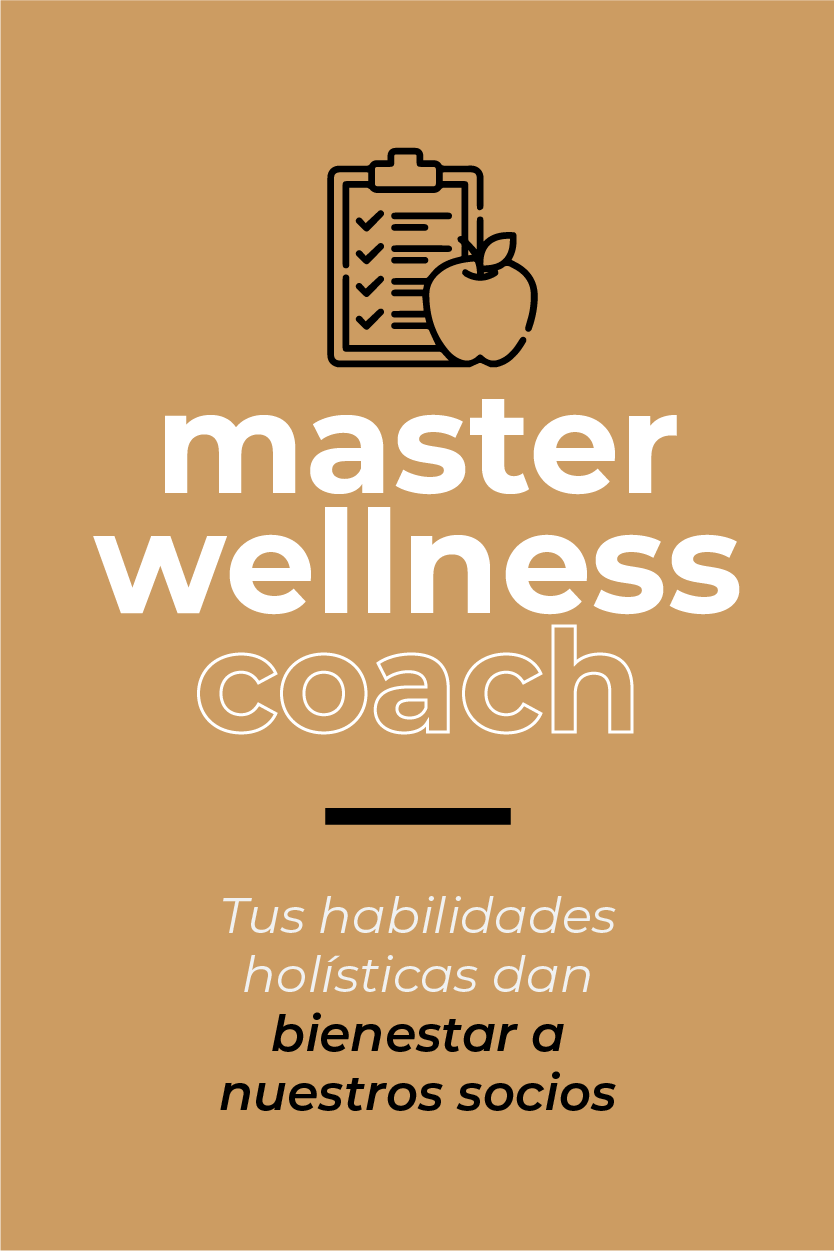
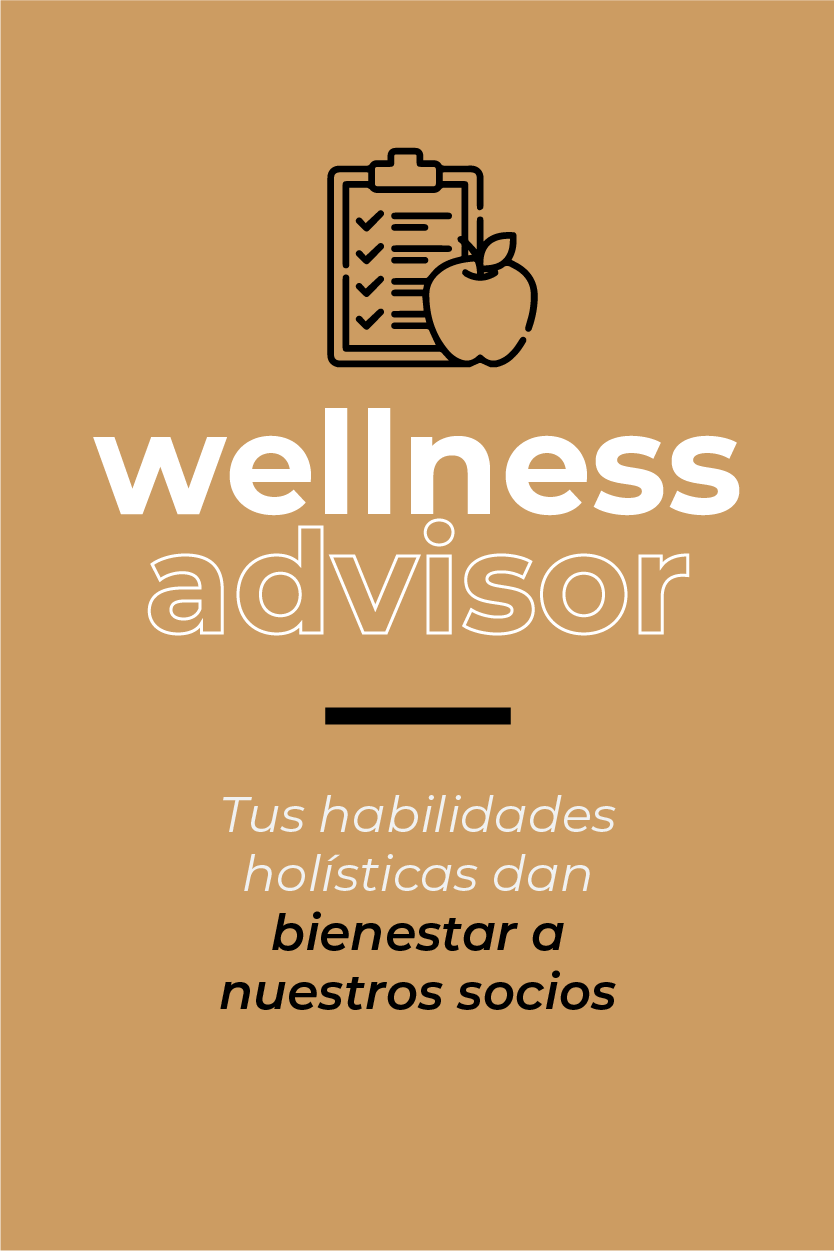
actualizando vacante

Changed region(s): [[0.0935, 0.3118, 0.9041, 0.5923], [0.2494, 0.6235, 0.7482, 0.9041], [0.2806, 0.6235, 0.3118, 0.6547]]

diff --git a/index.html b/index.html
@@ -209,7 +209,7 @@
 
                                             <img src="images/team/3.png" class="fp-image img-fluid" alt="">
                                         </div>
-                                        <a href="https://www.linkedin.com/posts/body-shop-athletic-club_bodyshoptalent-reclutamientobodyshop-talentoscomotu-activity-6966443684061966337-IHga?utm_source=linkedin_share&utm_medium=member_desktop_web" target="_blank">
+                                        <a href="https://www.linkedin.com/posts/body-shop-athletic-club_bodyshoptalent-reclutamientobodyshop-talentoscomotu-activity-6966534314985455616-oNnL?utm_source=linkedin_share&utm_medium=member_desktop_web" target="_blank">
                                         <div class="fpwow-icons">
                                         VER VACANTE &nbsp;<i class="fa-brands fa-linkedin fa-lg"></i>
                                 </a>
@@ -245,7 +245,7 @@
                                             <div class="spacer-double"></div>
 
                             <div class="row wow fadeInUp container-fluid">
-                                                                                                                                    <blockquote class="testimonial-big ">
+                                                                                                    <blockquote class="testimonial-big ">
                                                                                             
                                                                                                     </blockquote>
 
@@ -257,12 +257,13 @@
                                 </div>
 
 
-                                <div class="col-lg-6">
-                                </div>
+                                                                                                    <blockquote class="blockquote.testimonial-big-arrow">                                                                                          
+                                                                                                    </blockquote>
+
+
                             </div>
 
 
-                            
 
 
                                             <div class="col-lg-6 offset-lg-3 text-center ">

diff --git a/css/style.css b/css/style.css
@@ -5378,7 +5378,25 @@ blockquote.testimonial-big:before{
 	padding:10px 10px 10px 10px;
 	font-style:normal;
 }
+blockquote.testimonial-big-arrow:before{
+	display:block;
+	font-family:FontAwesome;
+	content: url('/images/flecha0.gif');
+	align-content: center;
+	margin: auto;
+	padding-bottom:50px;
+	padding:10px 10px 10px 10px;
+	font-style:normal;
+}
 blockquote.testimonial-big > img{
+	width:100px !important;
+	margin:30px auto;
+	height:auto;
+	border-radius:60px;
+	-moz-border-radius:60px;
+	-webkit-border-radius:60px;
+}
+blockquote.testimonial-big-arrow > img{
 	width:100px !important;
 	margin:30px auto;
 	height:auto;
